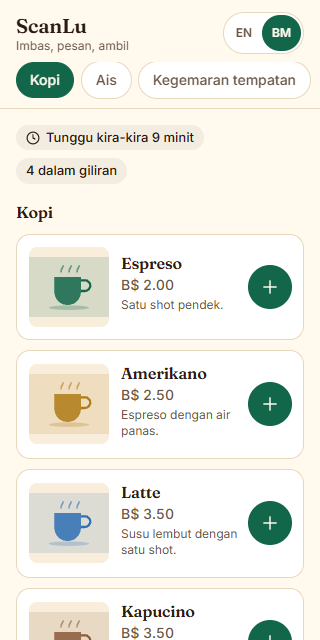
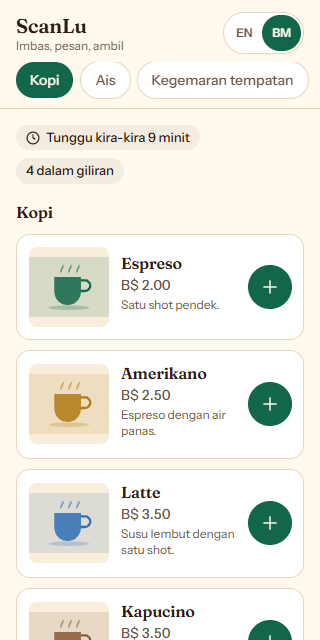
Fix dark mode contrast and change the body typeface
Dark mode remapped cream-50 and cocoa-900, which are absolute colours: ticket
paper, text on a brand button, text on a gold chip. Primary buttons therefore
rendered near-black text on dark green (2.9:1) and the modal backdrop became a
white veil. Only surfaces flip now: canvas, panel, ink, hairline. The contrast
script had been asserting the correct cream-on-brand ratio all along, so the
theme was contradicting its own check; two dark button pairs are now in it.

Body text moves from Inter to Instrument Sans, narrower and warmer, and the
ticket numbers from JetBrains Mono to IBM Plex Mono, which sits better under a
serif. Fraunces stays for headings. The unused font packages are gone, and the
build got about 120 KiB lighter because of it.

diff --git a/src/styles/tokens.css b/src/styles/tokens.css
@@ -53,8 +53,8 @@
 
   /* Type */
   --font-display: 'Fraunces Variable', 'Fraunces', Georgia, serif;
-  --font-sans: 'Inter Variable', 'Inter', ui-sans-serif, system-ui, sans-serif;
-  --font-mono: 'JetBrains Mono Variable', 'JetBrains Mono', ui-monospace, monospace;
+  --font-sans: 'Instrument Sans Variable', 'Instrument Sans', ui-sans-serif, system-ui, sans-serif;
+  --font-mono: 'IBM Plex Mono', ui-monospace, monospace;
 
   --text-ticket: 5rem;
   --text-ticket--line-height: 1;
@@ -89,12 +89,13 @@
   --color-warning-ink: #f2c063;
   --color-info-ink: #9cc4ef;
   --color-danger: #f0806c;
-  --color-cream-50: #101a16;
-  --color-cream-100: #17251f;
-  --color-cocoa-900: #f6eedc;
-  --color-cocoa-600: #b9ae98;
   --shadow-card: 0 1px 2px rgba(0, 0, 0, 0.4), 0 6px 18px rgba(0, 0, 0, 0.35);
   --shadow-lift: 0 2px 4px rgba(0, 0, 0, 0.45), 0 14px 30px rgba(0, 0, 0, 0.5);
+  /* cream-50, cream-100, cocoa-900 and cocoa-600 are deliberately NOT remapped.
+     They are not surfaces, they are the paper and ink of the ticket, the text on a
+     brand button and the text on a gold chip. Remapping them turned primary
+     buttons into near-black text on dark green (2.9:1) and the modal backdrop
+     into a white veil. Surfaces that should flip are canvas, panel and ink. */
 }
 
 @layer base {

diff --git a/src/main.tsx b/src/main.tsx
@@ -1,8 +1,11 @@
 import { StrictMode } from 'react'
 import { createRoot } from 'react-dom/client'
 import '@fontsource-variable/fraunces'
-import '@fontsource-variable/inter'
-import '@fontsource-variable/jetbrains-mono'
+// Instrument Sans over Inter: narrower, warmer, and it does not read as the
+// library default. Fraunces carries the headings, this carries the reading.
+import '@fontsource-variable/instrument-sans'
+import '@fontsource/ibm-plex-mono/400.css'
+import '@fontsource/ibm-plex-mono/600.css'
 import './styles/tokens.css'
 import './styles/app.css'
 import App from './App'

diff --git a/DECISIONS.md b/DECISIONS.md
@@ -84,6 +84,22 @@ The admin menu reads `listAllMenuItems()`, which does not filter on `is_active`.
 The guest query does, so using it in the editor meant switching a drink off
 removed it from the only screen that could switch it back on.
 
+**The dark theme only swaps surfaces, never paper or ink.** It used to remap
+`cream-50` to the canvas and `cocoa-900` to text, which are the absolute colours
+of the ticket paper, the text on a brand button and the text on a gold chip. The
+result was primary buttons rendering near-black on dark green (2.9:1) and the
+modal backdrop turning into a white veil. Those four tokens are no longer
+remapped; canvas, panel, ink and hairline still are. The contrast script had
+already been asserting the correct cream-on-brand ratio, so the theme was
+contradicting its own check.
+
+**Instrument Sans replaced Inter, IBM Plex Mono replaced JetBrains Mono.**
+Fraunces stays for headings: it is warm, it has real character, and it carries
+the shop's voice. Inter for body was the single most default choice available and
+made the UI read slightly anonymous. Instrument Sans is narrower and pairs with
+Fraunces; IBM Plex Mono sits under a serif far better than JetBrains did on the
+ticket numbers. Both are self hosted through Fontsource, so no network at runtime.
+
 **One realtime channel is shared by every query hook.** `realtime-js` returns the
 existing channel when the topic matches, so the second `useQuery` to subscribe was
 thrown by `.on()` ("cannot add postgres_changes callbacks after subscribe()") and
